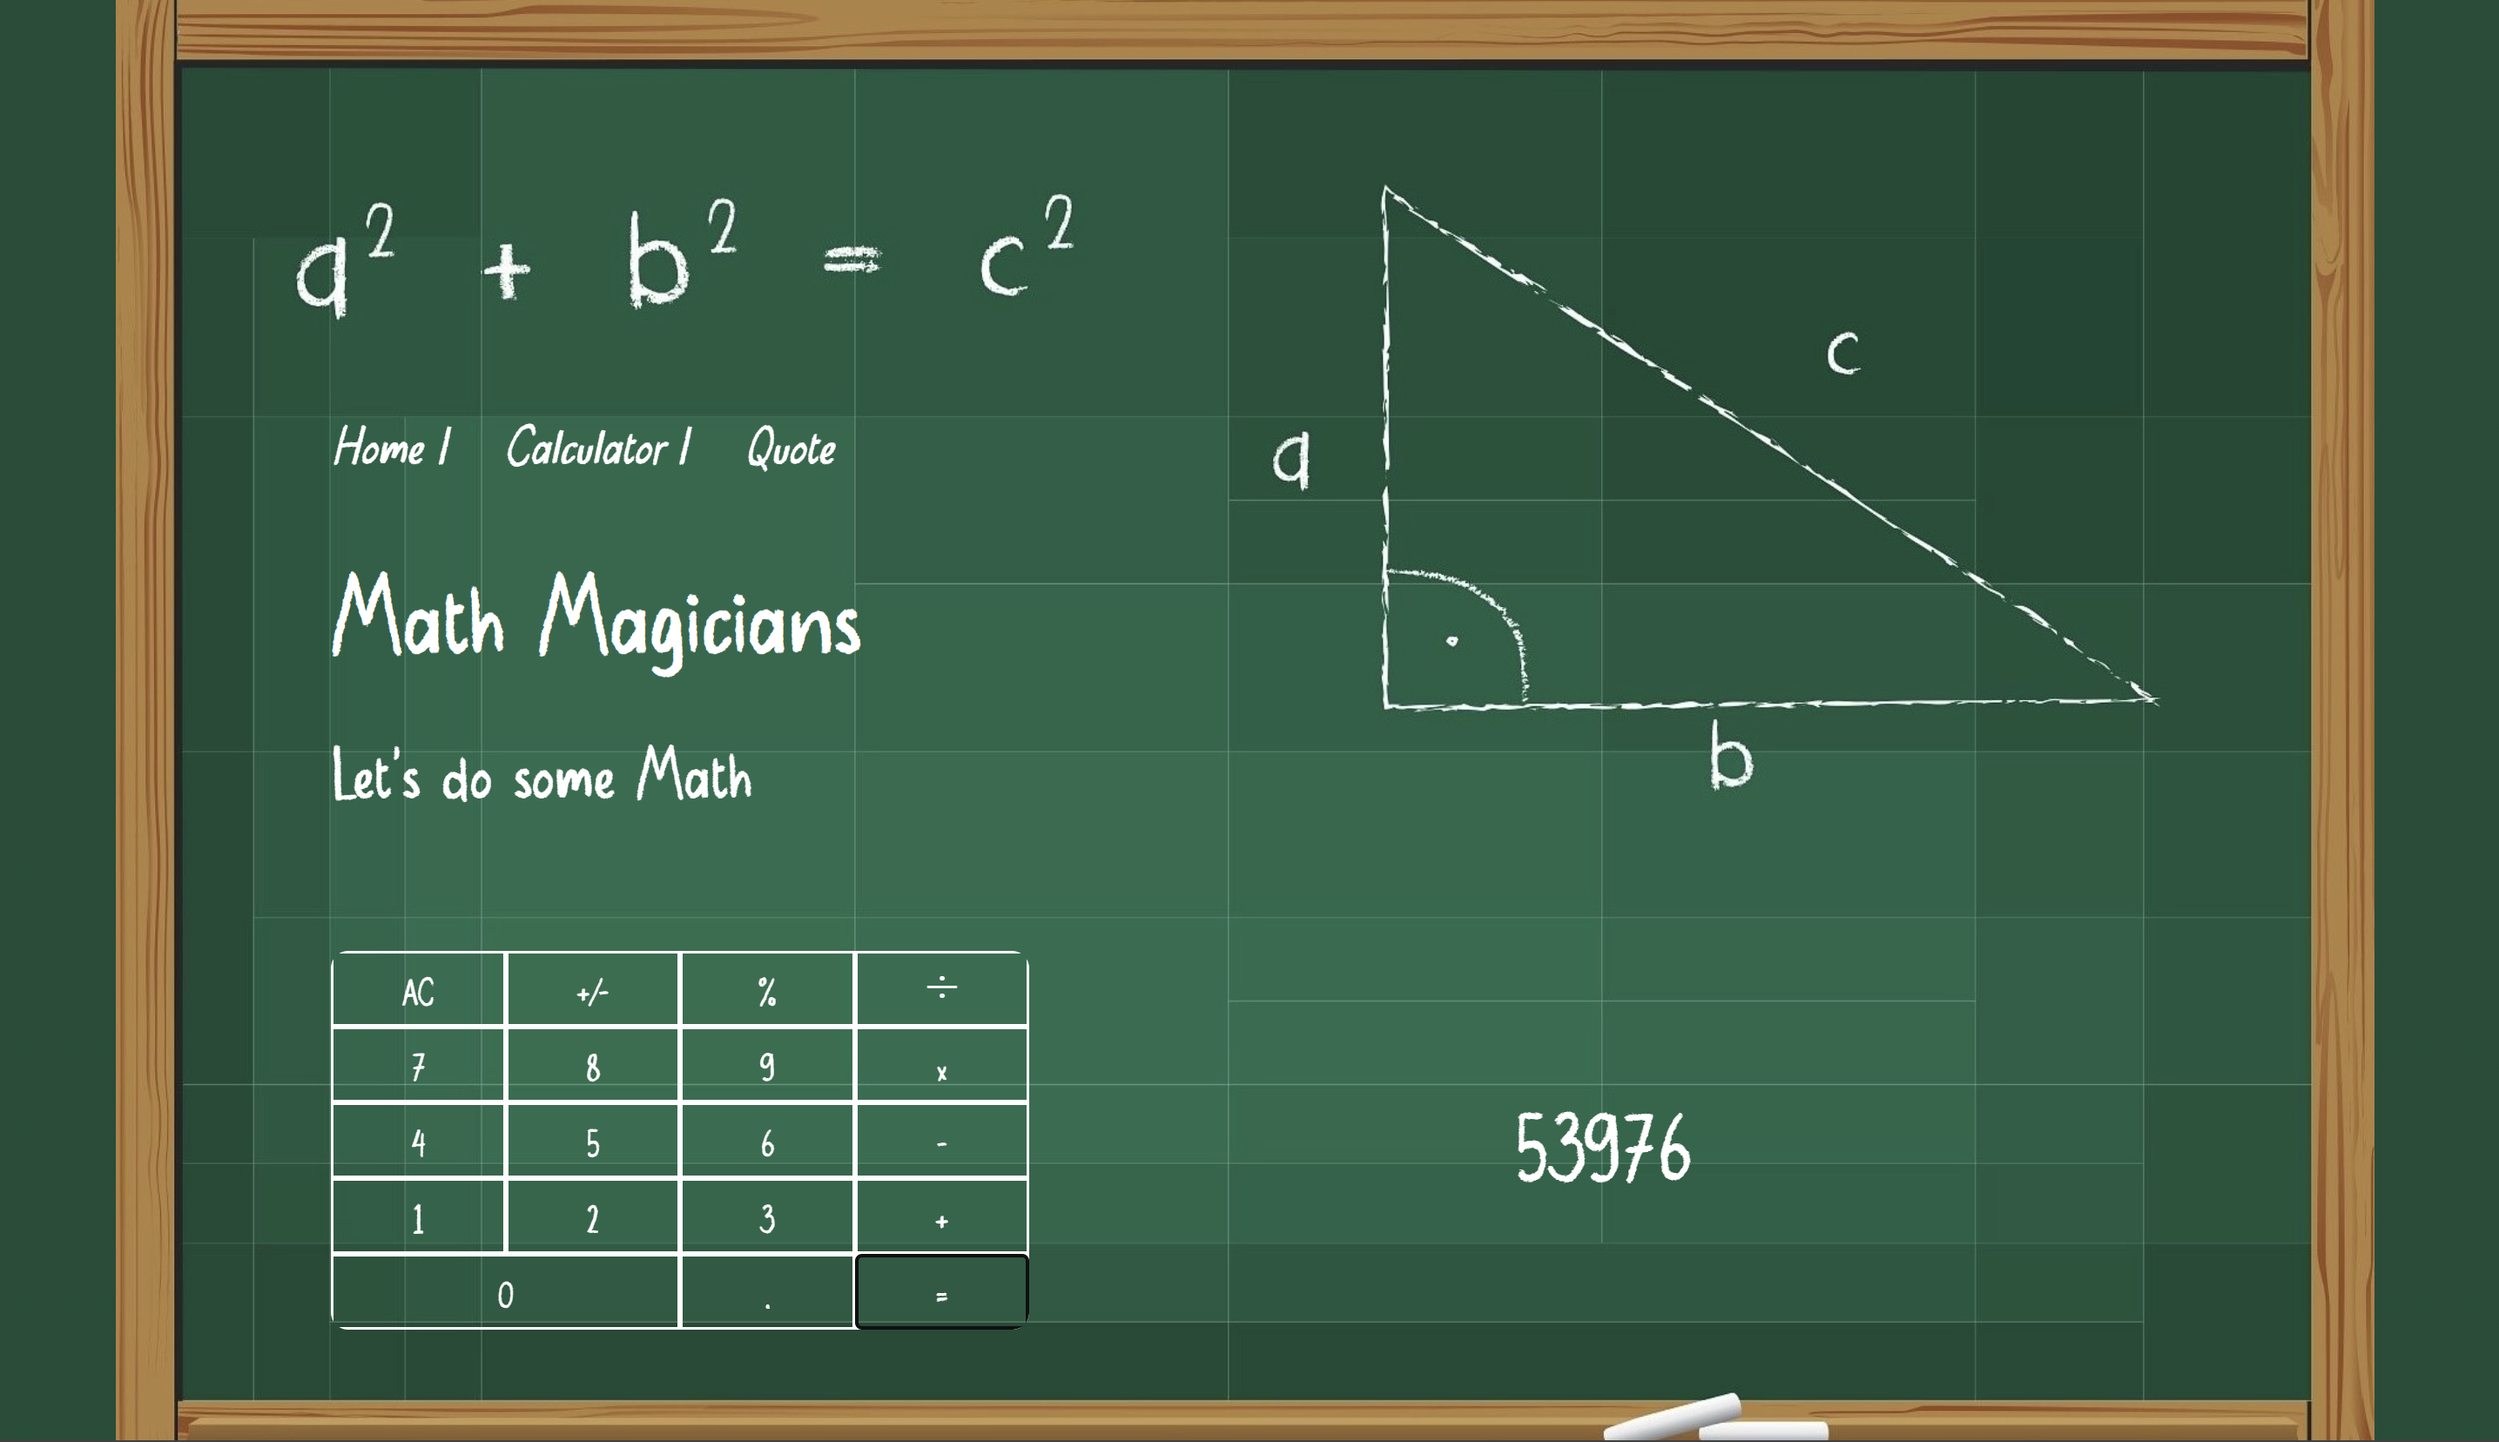
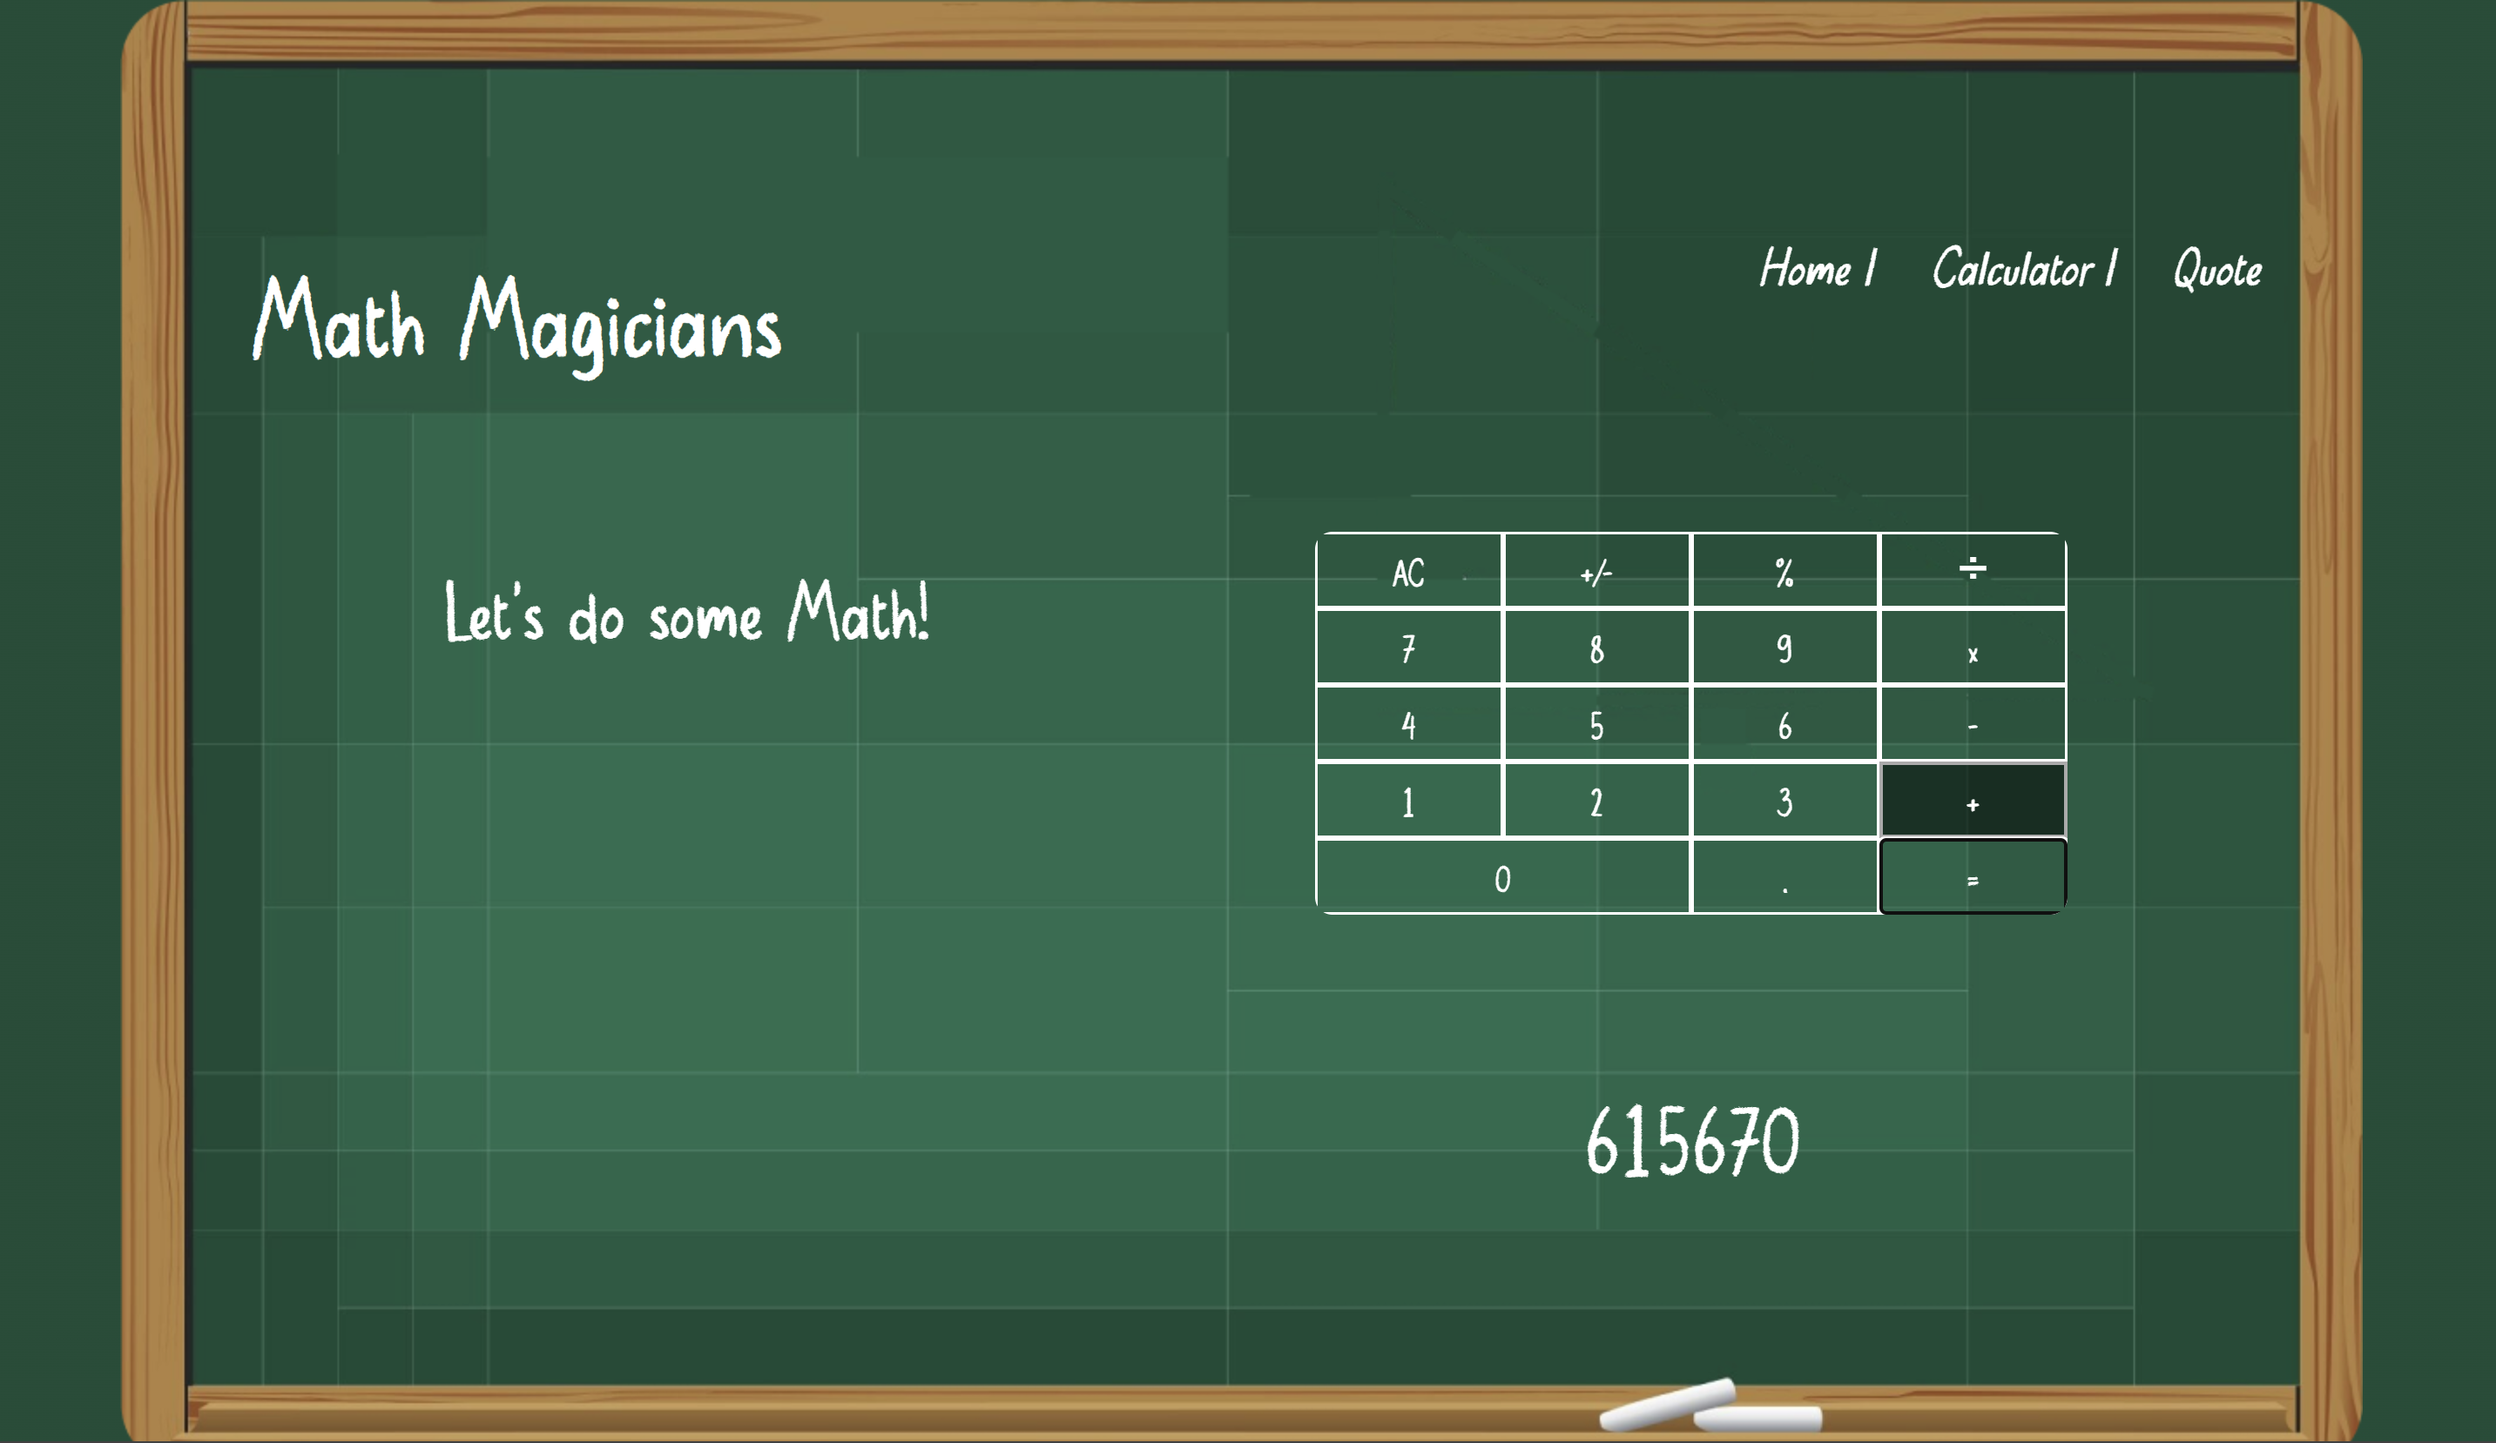
Edit styling

diff --git a/src/App.js b/src/App.js
@@ -2,25 +2,28 @@ import { Route, Routes, Link } from 'react-router-dom';
 import Calculator from './components/Calculator';
 import Home from './components/Home';
 import Quote from './components/Quote';
+import './app.css';
 
 const App = () => (
   <>
-    <nav>
-      <ul>
-        <li>
-          <Link to="/">Home </Link>
-          <span>| </span>
-        </li>
-        <li>
-          <Link to="/calculator">Calculator </Link>
-          <span>| </span>
-        </li>
-        <li>
-          <Link to="/quote"> Quote</Link>
-        </li>
-      </ul>
-    </nav>
-    <h1>Math Magicians</h1>
+    <div className="head-nav">
+      <h1>Math Magicians</h1>
+      <nav>
+        <ul>
+          <li>
+            <Link to="/">Home </Link>
+            <span>| </span>
+          </li>
+          <li>
+            <Link to="/calculator">Calculator </Link>
+            <span>| </span>
+          </li>
+          <li>
+            <Link to="/quote"> Quote</Link>
+          </li>
+        </ul>
+      </nav>
+    </div>
     <Routes>
       <Route path="/" element={<Home />} />
       <Route path="/calculator" element={<Calculator />} />

diff --git a/src/index.css b/src/index.css
@@ -1,29 +1,25 @@
 @font-face {
   font-family: 'Orion Chalk Solid';
-  src:
-    local('Orion Chalk Solid Demo Version'),
+  src: local('Orion Chalk Solid Demo Version'),
     url('./assets/font/orion-chalk-demo.solid-version.otf');
 }
 
 body {
   width: 100%;
   height: 100vh;
-  background-image:
-    url('./assets/img/bg.jpg'),
+  background-image: url('./assets/img/bg.png'),
     linear-gradient(#1c4d37, #1c4d37);
   background-repeat: no-repeat;
   background-position: center;
   background-size: contain;
   font-family: 'Orion Chalk Solid', sans-serif;
   color: #fff;
-  display: flex;
-  align-items: center;
   overflow: hidden;
 }
 
 #root {
   width: 100%;
-  padding-left: 13%;
+  padding-left: 10%;
   padding-top: 8%;
 }
 

diff --git a/src/components/styles/calculator.css b/src/components/styles/calculator.css
@@ -1,13 +1,20 @@
-.cal-container {
+.cal-page {
   width: 80%;
-  height: 30vh;
   display: flex;
-  align-items: center;
-  column-gap: 5em;
+  justify-content: space-around;
+  padding: 5% 0;
+}
+
+h2 {
+  font-size: 4.5em;
+}
+.cal-container {
+  width: auto;
+  height: 30vh;
 }
 
 .buttons {
-  width: 40%;
+  width: 30vw;
   color: #121212;
   line-height: 3;
   border-radius: 10px;
@@ -18,8 +25,8 @@
 }
 
 .display {
-  width: 30%;
-  text-align: right;
+  width: 100%;
+  text-align: center;
   padding-right: 10%;
   font-size: 5em;
   grid-area: 1/ 1 / span 1 / span 4;

diff --git a/src/components/Calculator.js b/src/components/Calculator.js
@@ -29,8 +29,8 @@ const Calculator = () => {
   ];
 
   return (
-    <>
-      <h2>Let&apos;s do some Math</h2>
+    <div className="cal-page">
+      <h2>Let&apos;s do some Math!</h2>
       <div className="cal-container">
         <div className="buttons">
           {numSigns.map((num) => (
@@ -52,7 +52,7 @@ const Calculator = () => {
           </p>
         </div>
       </div>
-    </>
+    </div>
   );
 };
 

diff --git a/src/app.css b/src/app.css
@@ -1,0 +1,14 @@
+.head-nav {
+  width: 80%;
+  display: flex;
+  justify-content: space-between;
+}
+
+h1 {
+  margin: 0;
+}
+
+ul {
+  margin: 0;
+  align-items: center;
+}

diff --git a/src/components/styles/quote.module.css b/src/components/styles/quote.module.css
@@ -1,6 +1,6 @@
 .quote {
-  width: 56vw;
+  width: 65vw;
   height: 30vh;
-  font-size: 3.5em;
+  font-size: 4em;
   margin-top: 1.5em;
 }

diff --git a/src/components/styles/home.module.css b/src/components/styles/home.module.css
@@ -1,5 +1,5 @@
 .info {
   width: 80vw;
   height: auto;
-  font-size: 1.7em;
+  font-size: 2.2em;
 }
